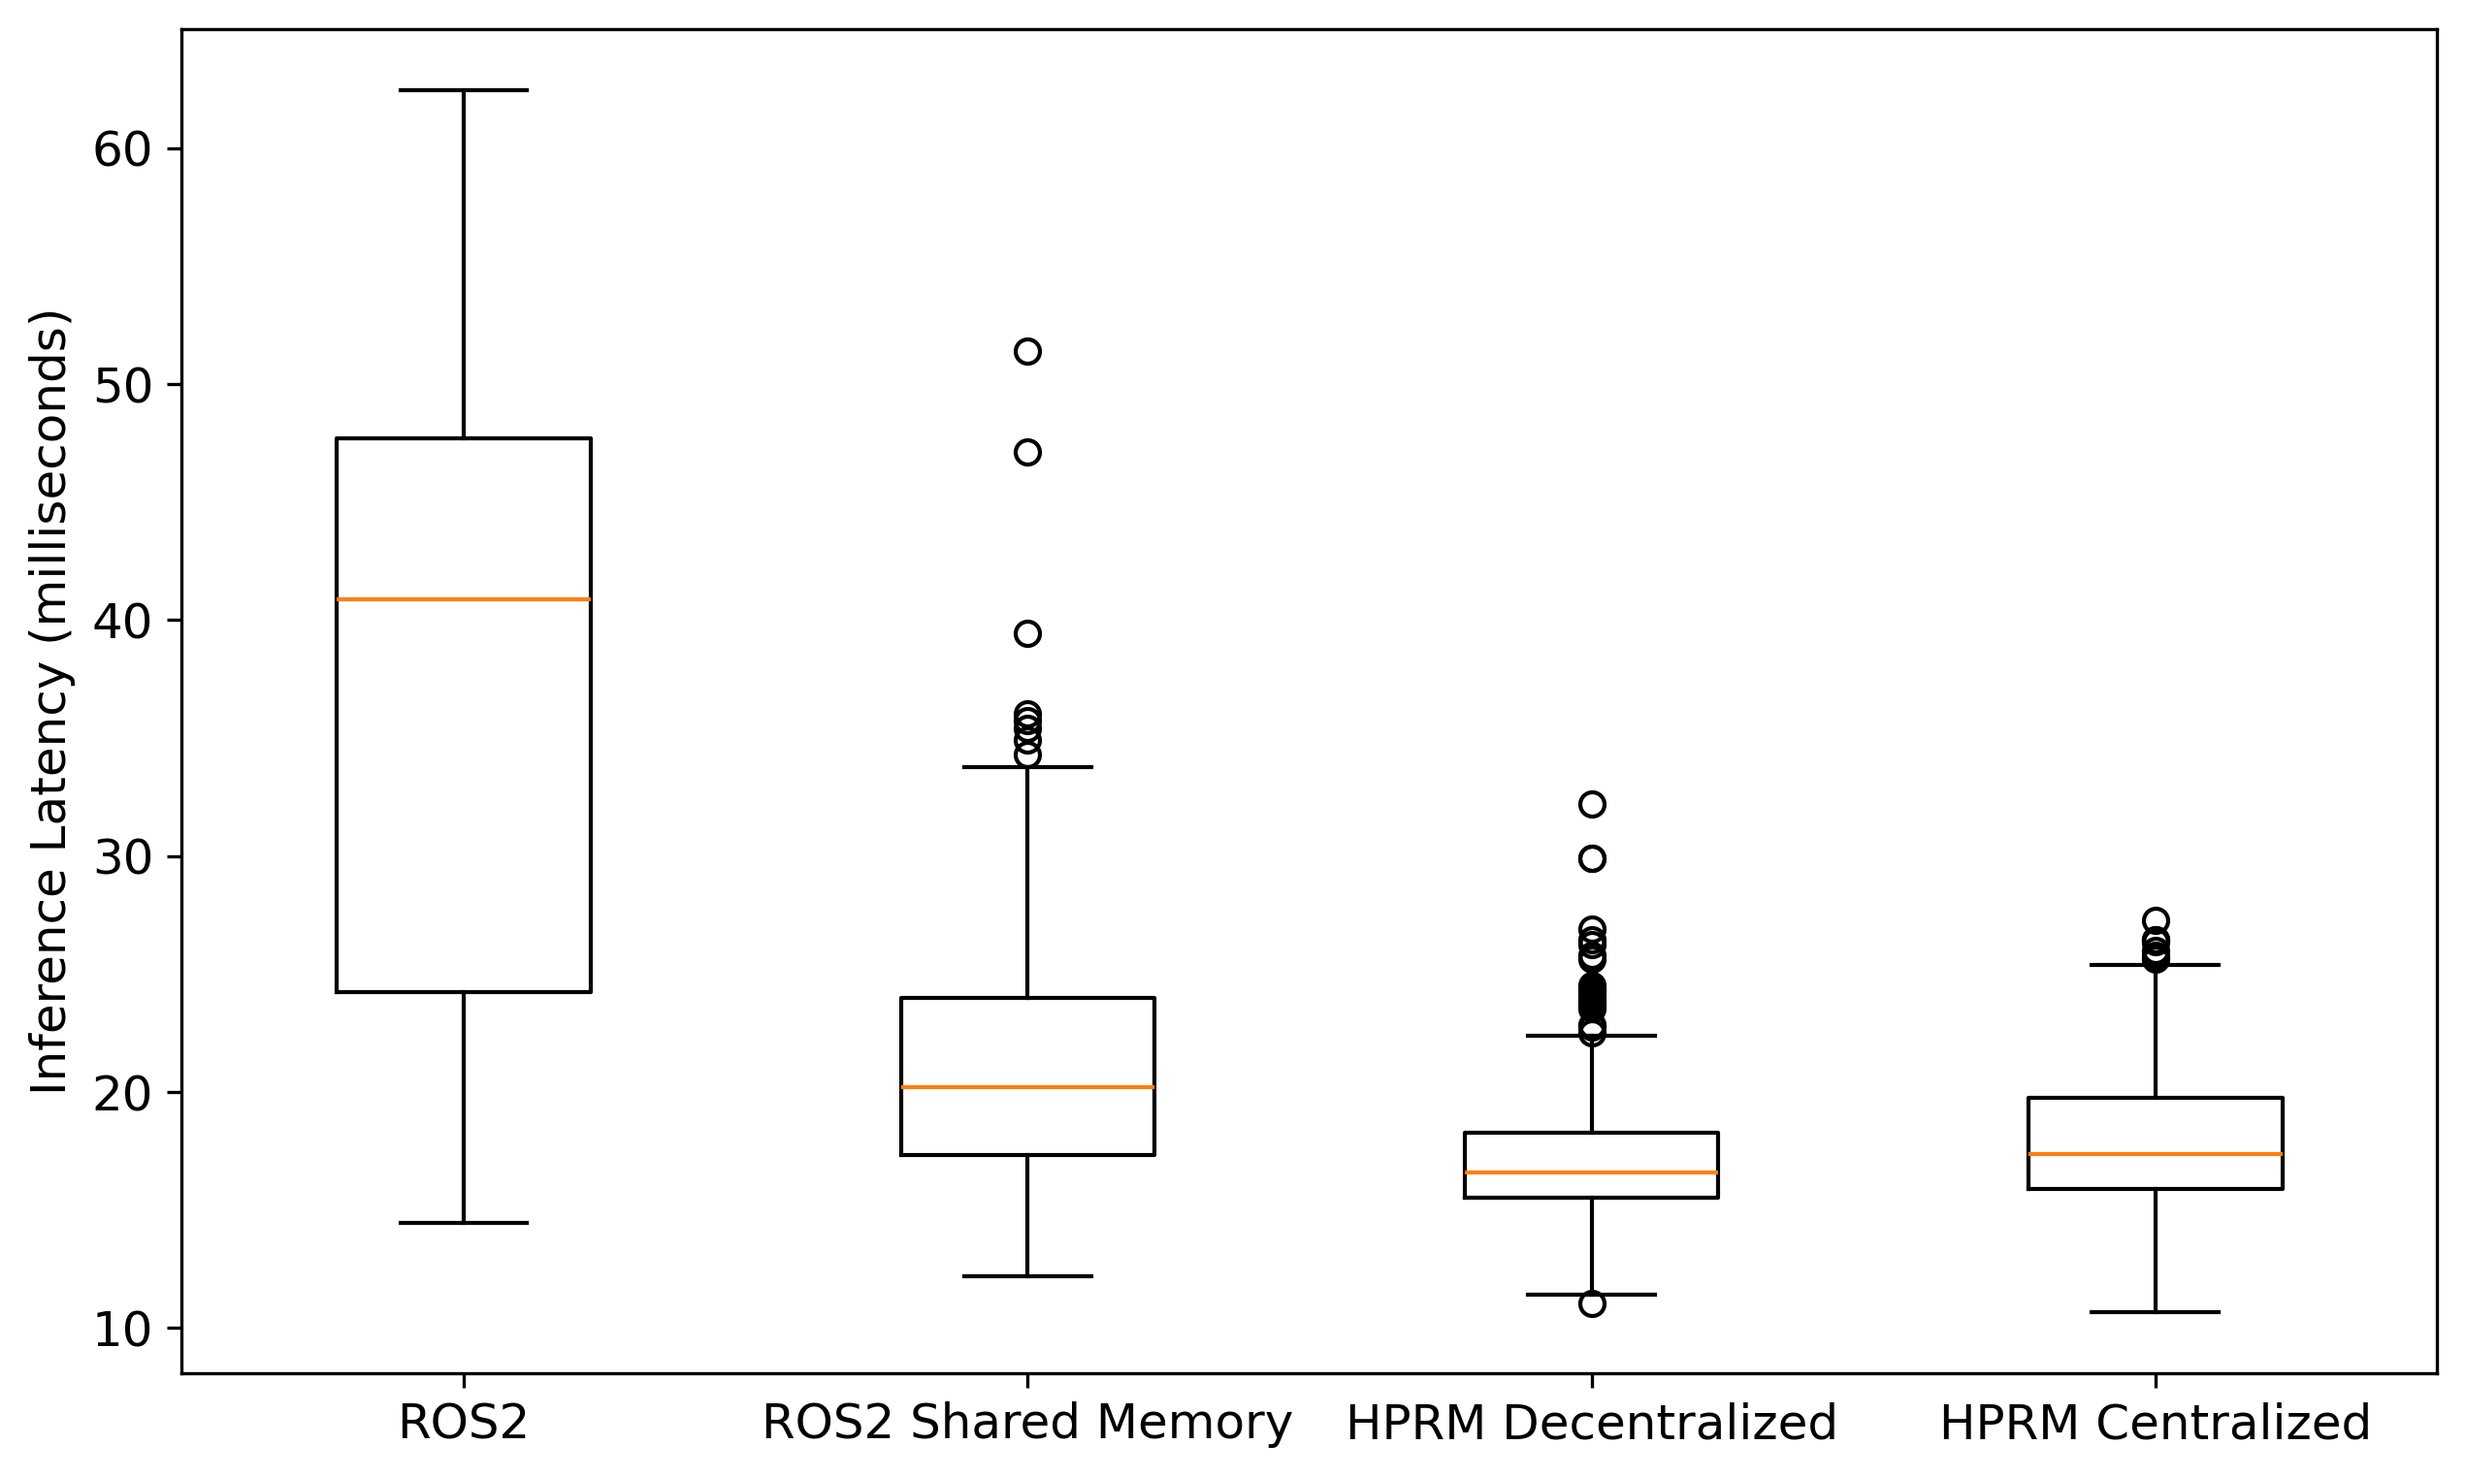
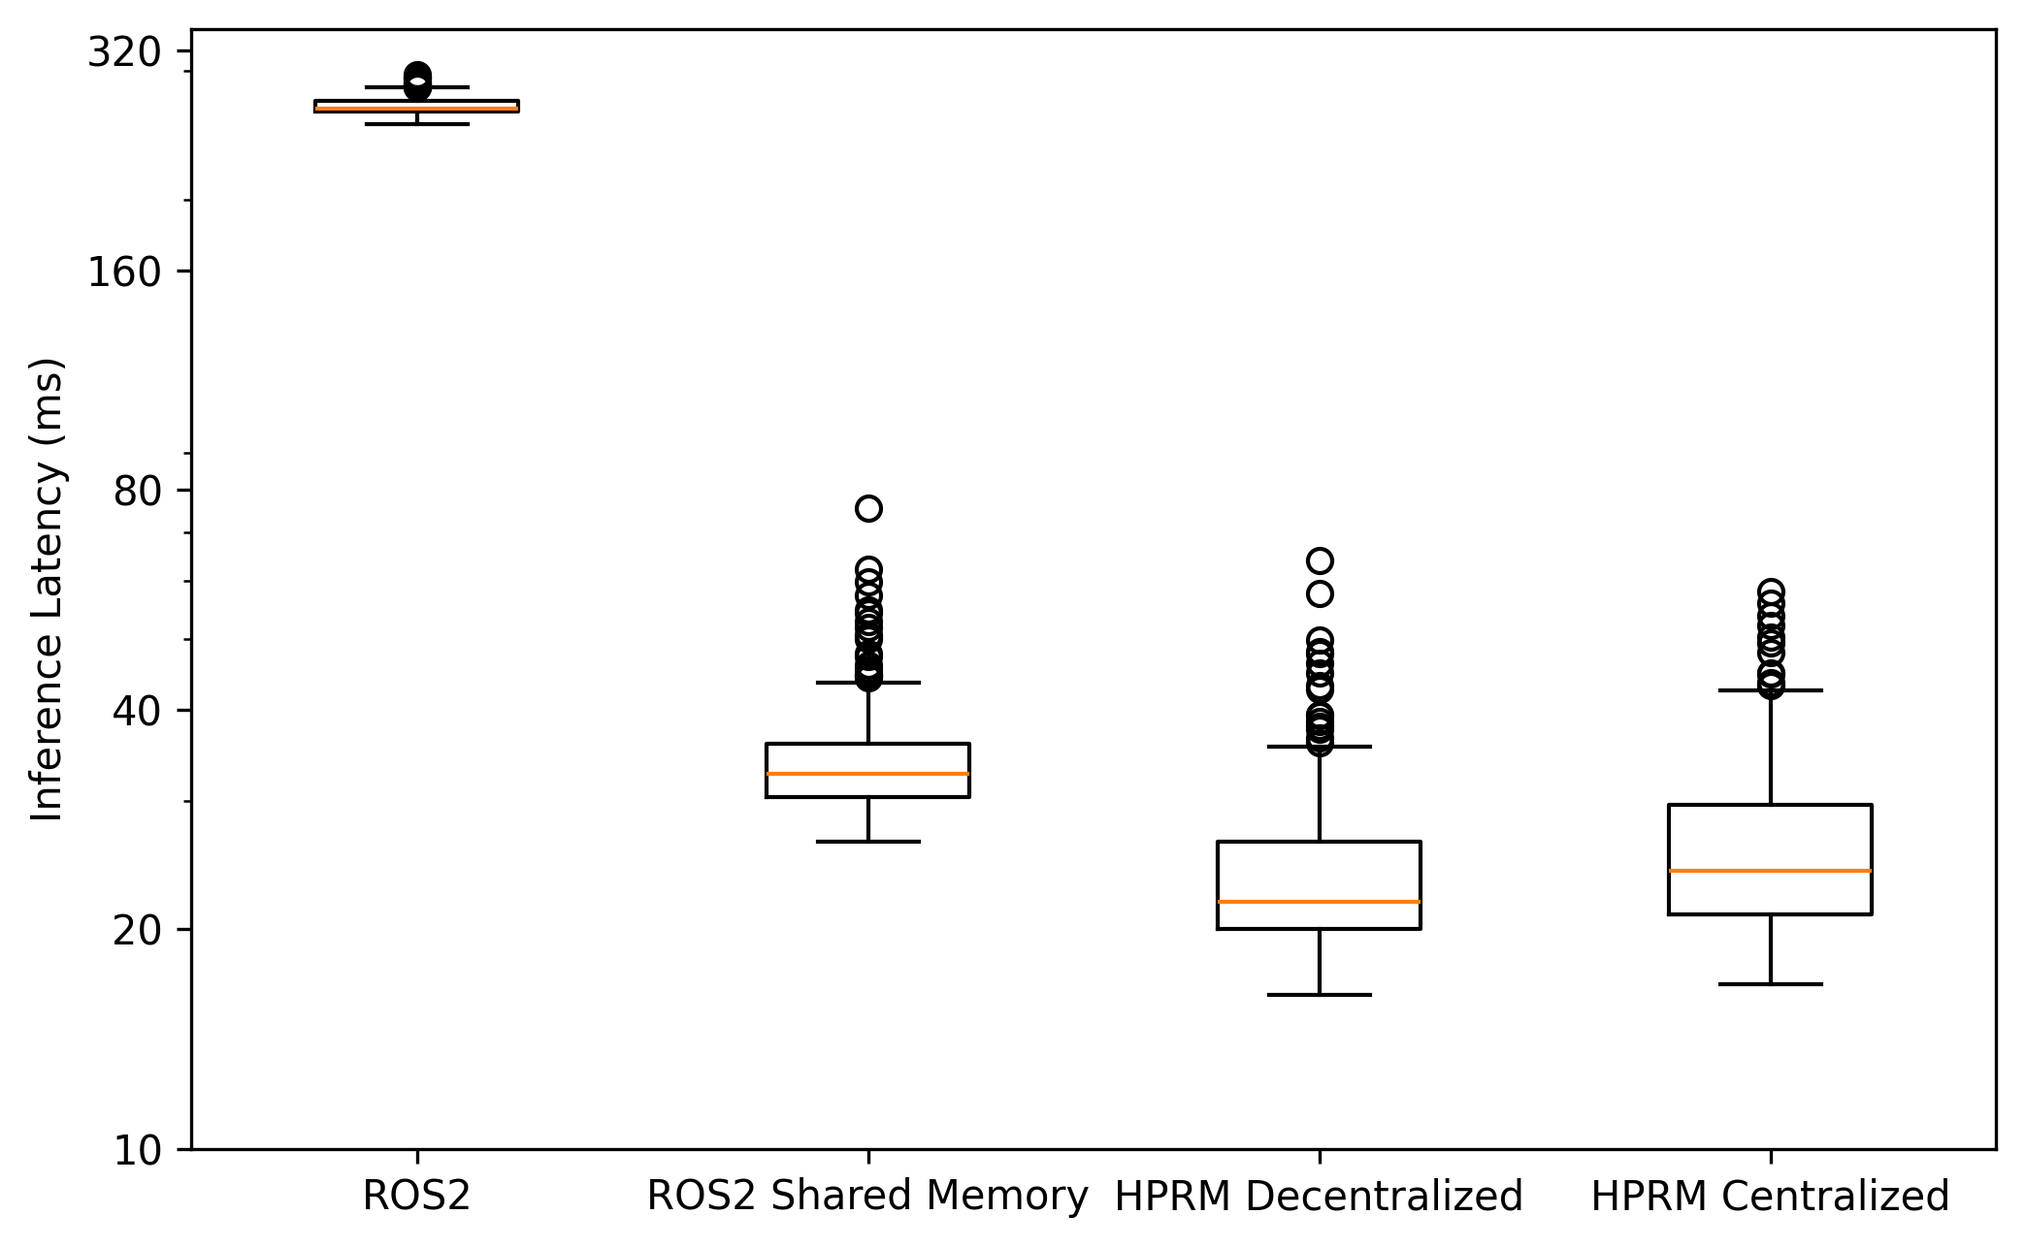
update plot

diff --git a/plot.py b/plot.py
@@ -37,5 +37,11 @@ labels = [
 plt.figure(figsize=(8, 5), dpi=300)
 plt.boxplot(data, labels=labels)
 plt.ylabel('Inference Latency (ms)')
+plt.yscale('log')
+y_ticks = [10, 20, 40, 80, 160, 320]
+plt.yticks(y_ticks, [str(tick) for tick in y_ticks])
+
+means = [np.mean(dat) for dat in data]
+
 plt.savefig("./logs/latency_plot.png", bbox_inches='tight') 
-print([f'{np.mean(dat):.2f}' for dat in data])
+print(means)
